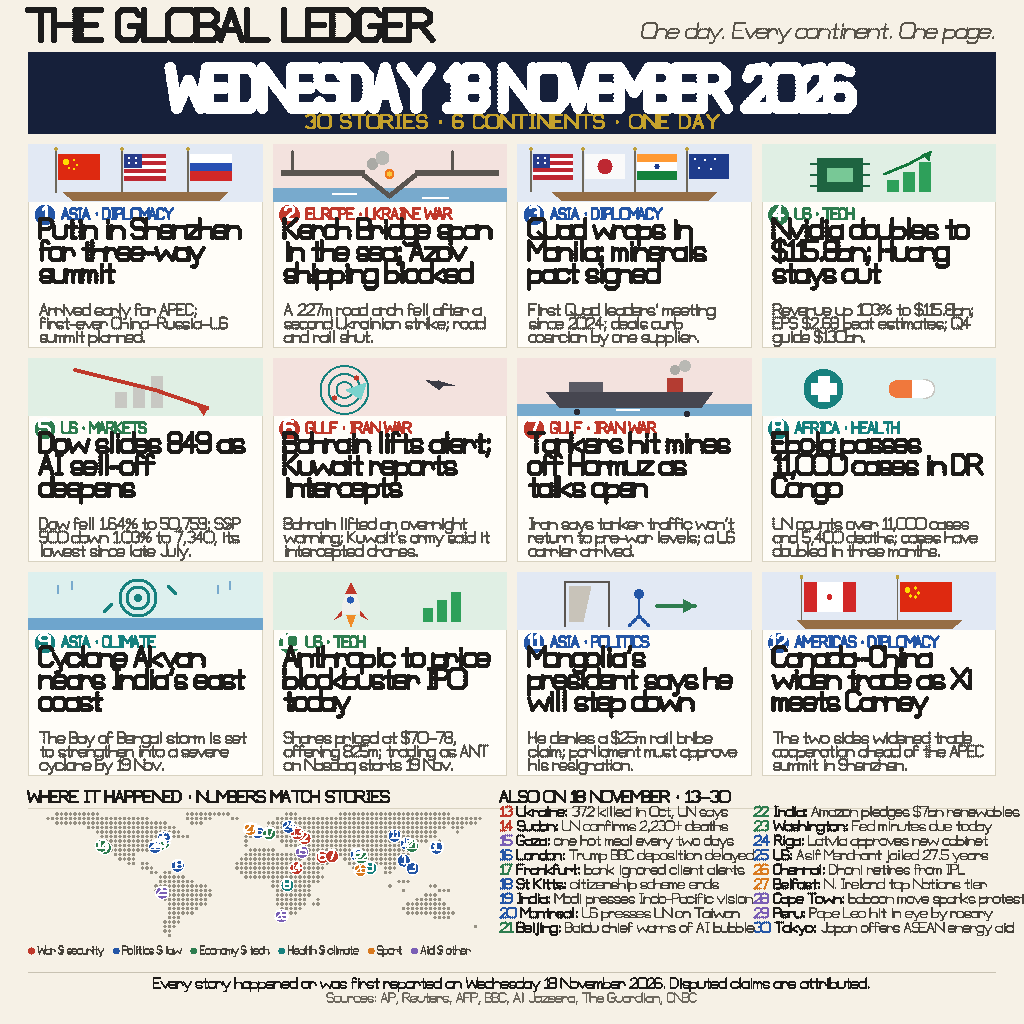
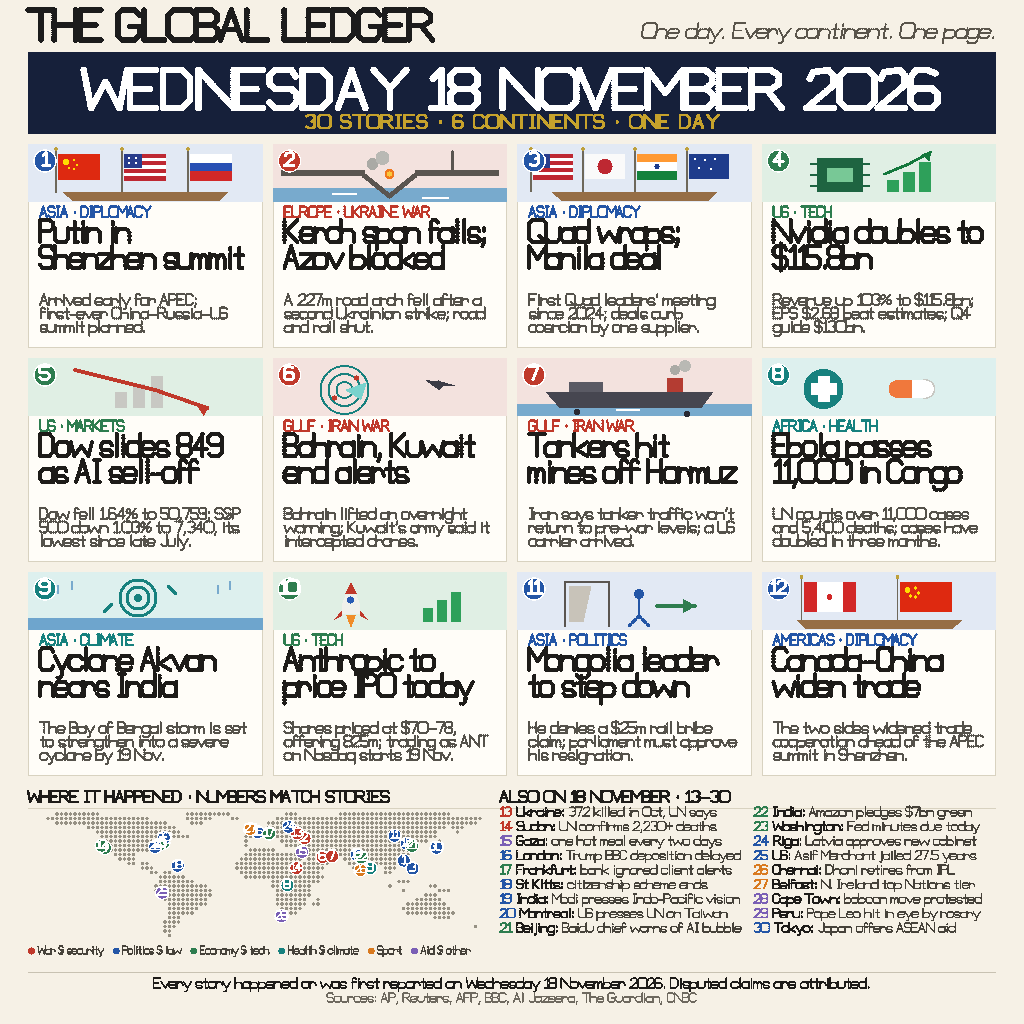
Fix v2: clean date bar, 2-line 22px headlines, badge inside art, ALSO right margin
- Date bar: weight 2.1 -> 1.25, scaleX 0.8 -> 1.0, tracking 1 -> 3,
  size 40 -> 38; counters of 0/6/8/9/A/D stay open, every letter readable.
- Masthead: weight 1.5 -> 1.3 (same lumpy-stroke defect).
- Headlines: 3 lines at 19px -> max 2 lines at 22px, weight 1.3,
  scaleX 0.85; all 12 headlines trimmed to fit 2 lines at full 22px
  (verified by wrap math, no auto-shrink); kicker/headline/deck
  geometry re-spaced so nothing collides.
- Number badge moved fully inside the illustration band (cy0+17),
  kicker starts at cx0+12; no kicker letter is covered anymore.
- ALSO: font 9.5 -> 9.0, longest col-2 items trimmed (#22/#28/#30);
  worst right edge 982px (14px margin), item 30 ends 956px.
- Stories (30), map pins, composition, footer, determinism unchanged.

diff --git a/main.ts b/main.ts
@@ -24,40 +24,40 @@ import { deflateSync } from 'node:zlib';
 // ===========================================================================
 const STORIES = [
   // ---- 12 FEATURES (grid 4x3) ----
-  { n: 1, k: 'ASIA · DIPLOMACY', h: 'Putin in Shenzhen for three-way summit',
+  { n: 1, k: 'ASIA · DIPLOMACY', h: 'Putin in Shenzhen summit',
     d: 'Arrived early for APEC; first-ever China–Russia–US summit planned.',
     t: 'pol', lon: 114.06, lat: 22.55, art: 'flags3' },
-  { n: 2, k: 'EUROPE · UKRAINE WAR', h: 'Kerch Bridge span in the sea; Azov shipping blocked',
+  { n: 2, k: 'EUROPE · UKRAINE WAR', h: 'Kerch span falls; Azov blocked',
     d: 'A 227m road arch fell after a second Ukrainian strike; road and rail shut.',
     t: 'war', lon: 36.5, lat: 45.3, art: 'bridge' },
-  { n: 3, k: 'ASIA · DIPLOMACY', h: 'Quad wraps in Manila; minerals pact signed',
+  { n: 3, k: 'ASIA · DIPLOMACY', h: 'Quad wraps; Manila deal',
     d: 'First Quad leaders\u2019 meeting since 2024; deals curb coercion by one supplier.',
     t: 'pol', lon: 120.98, lat: 14.6, art: 'flags4' },
-  { n: 4, k: 'US · TECH', h: 'Nvidia doubles to $115.8bn; Huang stays out',
+  { n: 4, k: 'US · TECH', h: 'Nvidia doubles to $115.8bn',
     d: 'Revenue up 103% to $115.8bn; EPS $2.68 beat estimates; Q4 guide $130bn.',
     t: 'eco', lon: -119.8, lat: 35.4, art: 'chipup' }, // pin nudged: Santa Clara area, California
-  { n: 5, k: 'US · MARKETS', h: 'Dow slides 849 as AI sell-off deepens',
+  { n: 5, k: 'US · MARKETS', h: 'Dow slides 849 as AI sell-off',
     d: 'Dow fell 1.64% to 50,759; S&P 500 down 1.03% to 7,340, its lowest since late July.',
     t: 'eco', lon: -74.0, lat: 40.7, art: 'chartdown' },
-  { n: 6, k: 'GULF · IRAN WAR', h: 'Bahrain lifts alert; Kuwait reports intercepts',
+  { n: 6, k: 'GULF · IRAN WAR', h: 'Bahrain, Kuwait end alerts',
     d: 'Bahrain lifted an overnight warning; Kuwait\u2019s army said it intercepted drones.',
     t: 'war', lon: 50.55, lat: 26.2, art: 'radar' },
-  { n: 7, k: 'GULF · IRAN WAR', h: 'Tankers hit mines off Hormuz as talks open',
+  { n: 7, k: 'GULF · IRAN WAR', h: 'Tankers hit mines off Hormuz',
     d: 'Iran says tanker traffic won\u2019t return to pre-war levels; a US carrier arrived.',
     t: 'war', lon: 58.0, lat: 27.0, art: 'tanker' }, // pin nudged east into Gulf of Oman
-  { n: 8, k: 'AFRICA · HEALTH', h: 'Ebola passes 11,000 cases in DR Congo',
+  { n: 8, k: 'AFRICA · HEALTH', h: 'Ebola passes 11,000 in Congo',
     d: 'UN counts over 11,000 cases and 5,400 deaths; cases have doubled in three months.',
     t: 'health', lon: 23.0, lat: -2.5, art: 'medic' },
-  { n: 9, k: 'ASIA · CLIMATE', h: 'Cyclone Akvan nears India\u2019s east coast',
+  { n: 9, k: 'ASIA · CLIMATE', h: 'Cyclone Akvan nears India',
     d: 'The Bay of Bengal storm is set to strengthen into a severe cyclone by 19 Nov.',
     t: 'health', lon: 88.0, lat: 15.0, art: 'cyclone' },
-  { n: 10, k: 'US · TECH', h: 'Anthropic to price blockbuster IPO today',
+  { n: 10, k: 'US · TECH', h: 'Anthropic to price IPO today',
     d: 'Shares priced at $70–78, offering 825m; trading as ANT on Nasdaq starts 19 Nov.',
     t: 'eco', lon: -122.42, lat: 37.77, art: 'rocket' },
-  { n: 11, k: 'ASIA · POLITICS', h: 'Mongolia\u2019s president says he will step down',
+  { n: 11, k: 'ASIA · POLITICS', h: 'Mongolia leader to step down',
     d: 'He denies a $25m rail bribe claim; parliament must approve his resignation.',
     t: 'pol', lon: 106.9, lat: 47.92, art: 'door' },
-  { n: 12, k: 'AMERICAS · DIPLOMACY', h: 'Canada–China widen trade as Xi meets Carney',
+  { n: 12, k: 'AMERICAS · DIPLOMACY', h: 'Canada–China widen trade',
     d: 'The two sides widened trade cooperation ahead of the APEC summit in Shenzhen.',
     t: 'pol', lon: 116.4, lat: 39.9, art: 'flags2' },
   // ---- 18 ALSO (one line each: place bold + short phrase) ----
@@ -70,15 +70,15 @@ const STORIES = [
   { n: 19, k: 'ASIA · DIPLOMACY', place: 'India', text: 'Modi presses Indo-Pacific vision', t: 'pol', lon: 77.21, lat: 28.61 },
   { n: 20, k: 'AMERICAS · DIPLOMACY', place: 'Montreal', text: 'US presses UN on Taiwan', t: 'pol', lon: -73.57, lat: 45.5 },
   { n: 21, k: 'ASIA · TECH', place: 'Beijing', text: 'Baidu chief warns of AI bubble', t: 'eco', lon: 120.5, lat: 37.5 }, // pin nudged: Shandong, near Beijing
-  { n: 22, k: 'ASIA · BUSINESS', place: 'India', text: 'Amazon pledges $7bn renewables', t: 'eco', lon: 80.8, lat: 25.8 }, // pin nudged: south-east of New Delhi
+  { n: 22, k: 'ASIA · BUSINESS', place: 'India', text: 'Amazon pledges $7bn green', t: 'eco', lon: 80.8, lat: 25.8 }, // pin nudged: south-east of New Delhi
   { n: 23, k: 'US · ECONOMY', place: 'Washington', text: 'Fed minutes due today', t: 'eco', lon: -77.04, lat: 38.9 },
   { n: 24, k: 'EUROPE · POLITICS', place: 'Riga', text: 'Latvia approves new cabinet', t: 'pol', lon: 24.1, lat: 56.95 },
   { n: 25, k: 'US · LAW', place: 'US', text: 'Asif Merchant jailed 27.5 years', t: 'pol', lon: -80.5, lat: 36.5 }, // pin nudged: Virginia, near Washington
   { n: 26, k: 'ASIA · SPORT', place: 'Chennai', text: 'Dhoni retires from IPL', t: 'sport', lon: 80.27, lat: 13.08 },
   { n: 27, k: 'EUROPE · SPORT', place: 'Belfast', text: 'N. Ireland top Nations tier', t: 'sport', lon: -5.93, lat: 54.6 },
-  { n: 28, k: 'AFRICA · ANIMALS', place: 'Cape Town', text: 'baboon move sparks protests', t: 'other', lon: 18.42, lat: -33.92 },
+  { n: 28, k: 'AFRICA · ANIMALS', place: 'Cape Town', text: 'baboon move protested', t: 'other', lon: 18.42, lat: -33.92 },
   { n: 29, k: 'AMERICAS · RELIGION', place: 'Peru', text: 'Pope Leo hit in eye by rosary', t: 'other', lon: -75.0, lat: -10.0 },
-  { n: 30, k: 'ASIA · DIPLOMACY', place: 'Tokyo', text: 'Japan offers ASEAN energy aid', t: 'pol', lon: 139.69, lat: 35.68 },
+  { n: 30, k: 'ASIA · DIPLOMACY', place: 'Tokyo', text: 'Japan offers ASEAN aid', t: 'pol', lon: 139.69, lat: 35.68 },
 ];
 
 const THEME = {
@@ -588,13 +588,17 @@ function build() {
   fillRect(0, 0, W, H, CREAM);
 
   // 1. Masthead: paper name left, tagline right (italic, thin).
-  drawText('THE GLOBAL LEDGER', 28, 40, 30, [28, 28, 28], { weight: 1.5, tracking: 0.5 });
+  // FIX v2: masthead weight 1.5 -> 1.3 (same lumpy-stroke defect as the date bar).
+  drawText('THE GLOBAL LEDGER', 28, 40, 30, [28, 28, 28], { weight: 1.3, tracking: 0.5 });
   const tag = 'One day. Every continent. One page.';
   drawText(tag, 996 - textWidth(tag, 15, { weight: 0.9, slant: 0.16 }), 38, 15, [90, 85, 75], { weight: 0.9, slant: 0.16 });
 
   // 2. Navy bar: date huge, gold strip line below it.
+  // FIX v2 (defect 1): date weight 2.1 -> 1.25 (12.0px stroke closed the
+  // counters of 0/6/8/9/A/D), scaleX 0.8 -> 1.0 (no more condensing),
+  // tracking 1 -> 3, size 40 -> 38. Width 857px in the 968px bar.
   fillRect(28, 52, 968, 82, NAVY);
-  drawCentered('WEDNESDAY 18 NOVEMBER 2026', 512, 108, 40, [255, 255, 255], { weight: 2.1, scaleX: 0.8, tracking: 1 });
+  drawCentered('WEDNESDAY 18 NOVEMBER 2026', 512, 108, 38, [255, 255, 255], { weight: 1.25, scaleX: 1.0, tracking: 3 });
   drawCentered('30 STORIES · 6 CONTINENTS · ONE DAY', 512, 128, 13, GOLD, { weight: 1.6, tracking: 2.5 });
 
   // 3. Grid 4x3 = 12 features.
@@ -610,21 +614,26 @@ function build() {
     // illustration band
     fillRect(cx0, cy0, colW, 58, th.tint);
     drawArt(s.art, cx0, cy0, colW);
-    // number badge
-    const bx = cx0 + 17, by = cy0 + 58 + 13;
+    // number badge — FIX v2 (defect 3): fully INSIDE the illustration band
+    // (centre cy0+17, like Daily Meridian), so it can never cover the kicker.
+    const bx = cx0 + 17, by = cy0 + 17;
     fillCircle(bx, by, 11, th.c);
     ring(bx, by, 11, 1.2, [255, 255, 255]);
     const num = String(s.n);
     drawText(num, bx - textWidth(num, 13, { weight: 1.6 }) / 2, by + 4.5, 13, [255, 255, 255], { weight: 1.6 });
-    // kicker
-    drawText(s.k, cx0 + 34, cy0 + 58 + 17, 10.5, th.c, { weight: 1.8, scaleX: 0.88, tracking: 0.3 });
-    // headline (auto-fit to 3 lines)
-    const hb = fitBlock(s.h, colW - 24, 19, 3, 22, { weight: 1.55, scaleX: 0.92 });
-    let hy = cy0 + 58 + 36;
-    for (const ln of hb.lines) { drawText(ln, cx0 + 12, hy, hb.size, INK, { weight: 1.55, scaleX: 0.92 }); hy += 22; }
+    // kicker — FIX v2: starts at cx0+12 (badge no longer in the way),
+    // weight 1.8 -> 1.5, baseline one px higher to clear the 22px headline.
+    drawText(s.k, cx0 + 12, cy0 + 58 + 15, 10.5, th.c, { weight: 1.5, scaleX: 0.88, tracking: 0.3 });
+    // headline — FIX v2 (defect 2): MAX 2 lines at 22px (was 3 lines at
+    // 19px), weight 1.55 -> 1.3, scaleX 0.92 -> 0.85; headlines trimmed
+    // in STORIES so all 12 fit in 2 lines at full 22px (verified by wrap
+    // math; fitBlock only shrinks as a safety net, never triggers now).
+    const hb = fitBlock(s.h, colW - 24, 22, 2, 26, { weight: 1.3, scaleX: 0.85 });
+    let hy = cy0 + 58 + 40;
+    for (const ln of hb.lines) { drawText(ln, cx0 + 12, hy, hb.size, INK, { weight: 1.3, scaleX: 0.85 }); hy += 26; }
     // deck (auto-fit to 3 lines)
     const db = fitBlock(s.d, colW - 24, 11, 3, 13.5, { weight: 1.3, scaleX: 0.95 });
-    let dy = cy0 + 58 + 36 + hb.lines.length * 22 + 11;
+    let dy = cy0 + 58 + 40 + hb.lines.length * 26 + 11;
     for (const ln of db.lines) { drawText(ln, cx0 + 12, dy, db.size, [85, 82, 75], { weight: 1.3, scaleX: 0.95 }); dy += 13.5; }
   }
 
@@ -645,15 +654,18 @@ function build() {
   }
 
   // 6. ALSO list: 2 columns x 9 rows.
+  // FIX v2 (defect 4): font 9.5 -> 9.0 and the three longest col-2 items
+  // trimmed in STORIES (#22/#28/#30). Worst col-2 right edge is now 982px
+  // (14px margin to the 996px page edge); item 30 ends at 956px.
   for (let i = 12; i < 30; i++) {
     const s = STORIES[i];
     const col = Math.floor((i - 12) / 9), row = (i - 12) % 9;
     const ax = 500 + col * 254, ay = 816 + row * 14.5;
     const th = THEME[s.t];
     let x = ax;
-    x = drawText(String(s.n), x, ay, 9.5, th.c, { weight: 1.5 }) + 5;
-    x = drawText(s.place + ':', x, ay, 9.5, INK, { weight: 1.5 }) + 4;
-    drawText(s.text, x, ay, 9.5, [70, 66, 58], { weight: 1.1 });
+    x = drawText(String(s.n), x, ay, 9, th.c, { weight: 1.5 }) + 5;
+    x = drawText(s.place + ':', x, ay, 9, INK, { weight: 1.5 }) + 4;
+    drawText(s.text, x, ay, 9, [70, 66, 58], { weight: 1.1 });
   }
 
   // 7. Footer.
